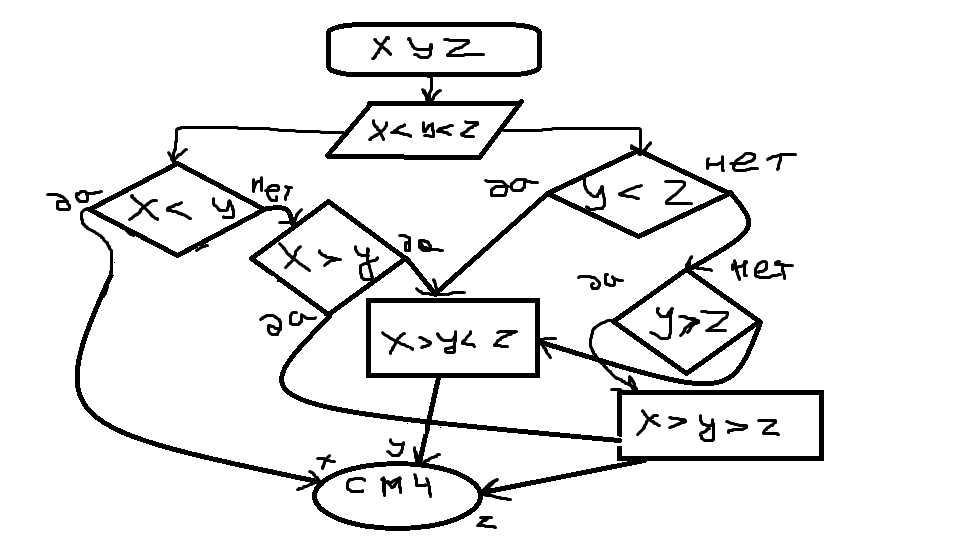
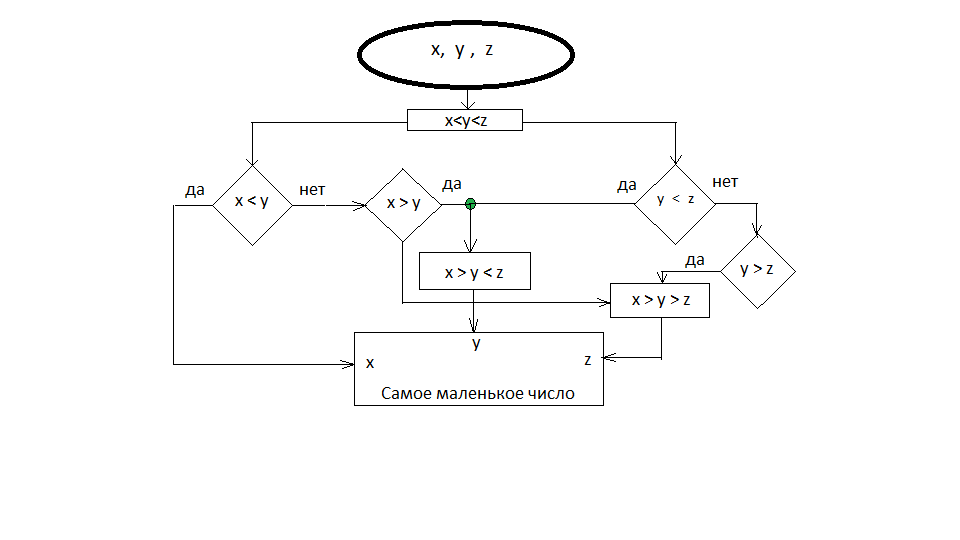
homework07

diff --git a/homework 2019-10-25/javaScript.js b/homework 2019-10-25/javaScript.js
@@ -8,6 +8,21 @@
 
 // Схема в HTML!!!
 
+// var x, y, z;
+// var x = prompt("Введите x :", 1);
+// var y = prompt("Введите y :", 1);
+// var z = prompt("Введите z :", 1);
+
+// if (x < y) {
+//   alert("меньшее х");
+// } else if (z > y) {
+//   alert("меньшее у");
+// } else if (y > z) {
+//   alert("меньшее z");
+// } else {
+//   alert("что то не заладилось(");
+// }
+
 //Task 2
 
 // По склону Фудзи ползет улитка.

diff --git a/homework 2019-10-25/index.html b/homework 2019-10-25/index.html
@@ -8,6 +8,8 @@
     <title>Document</title>
   </head>
   <body>
+    <h1>Блок - Схема</h1>
+    <h3>Найти найменьшее число</h3>
     <img src="shema.png" alt="pic" />
     <script src="javaScript.js"></script>
   </body>

diff --git a/homework 2019-10-25/main.css b/homework 2019-10-25/main.css
@@ -1,0 +1,4 @@
+body {
+  width: 100%;
+  text-align: center;
+}
